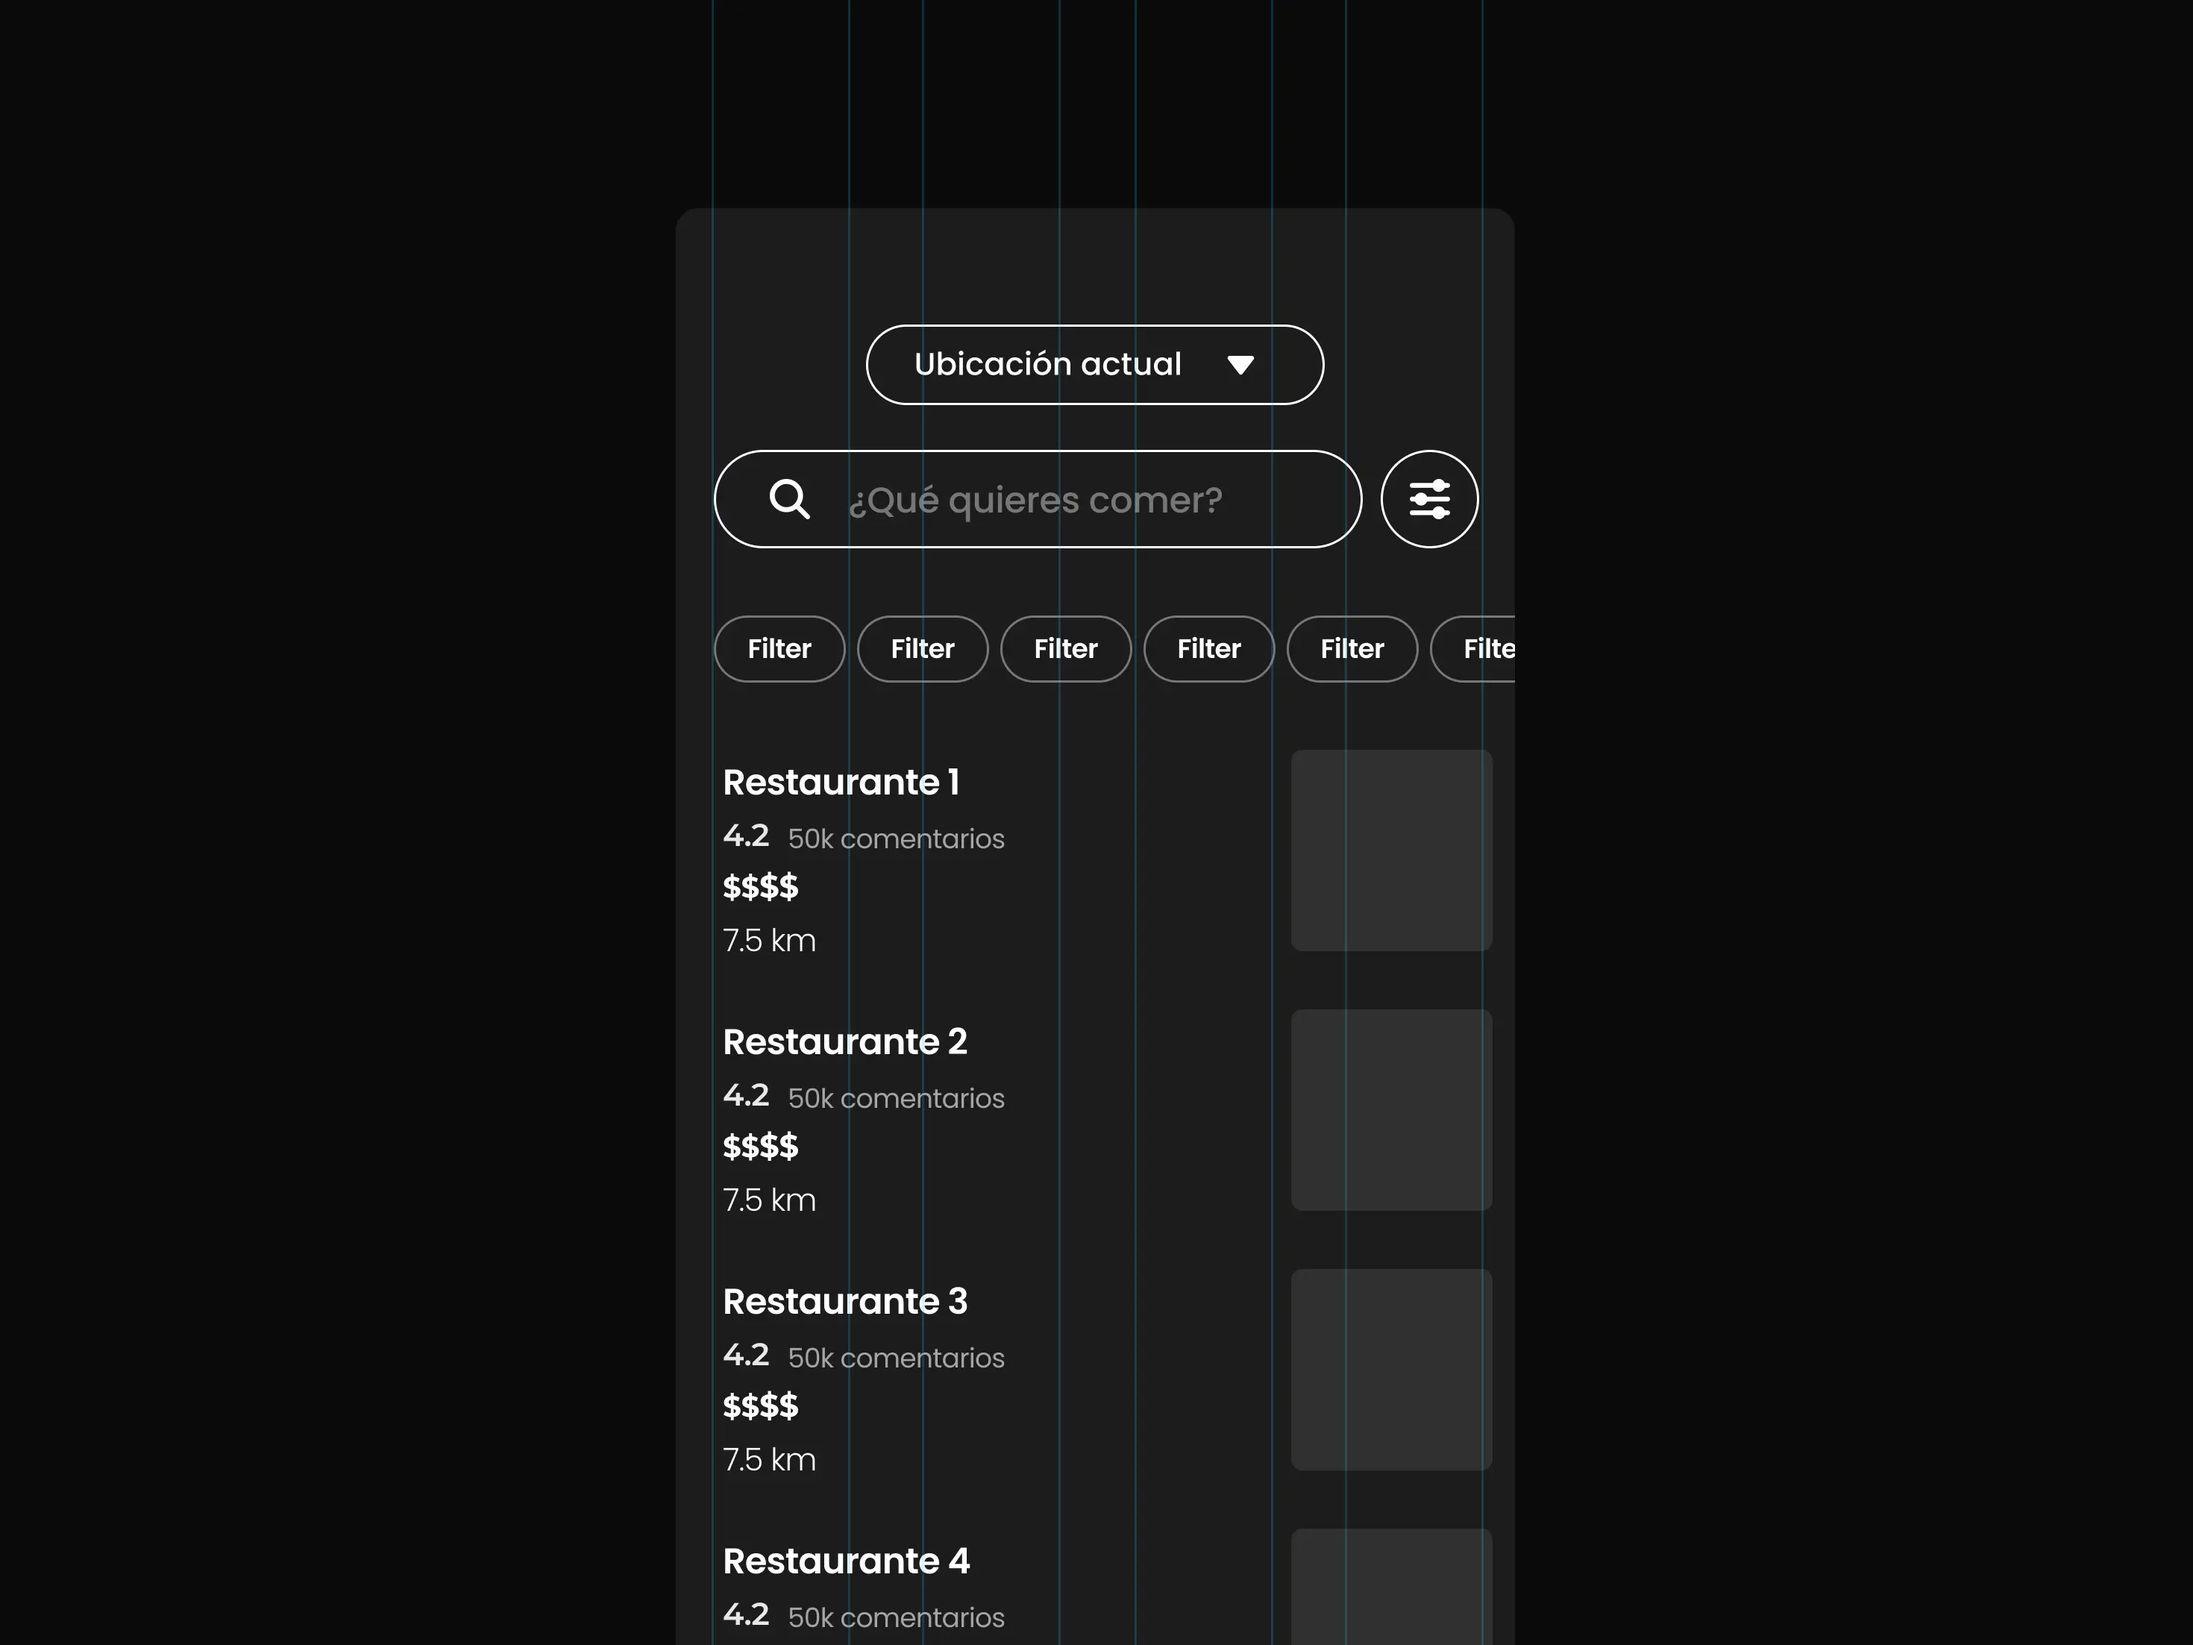
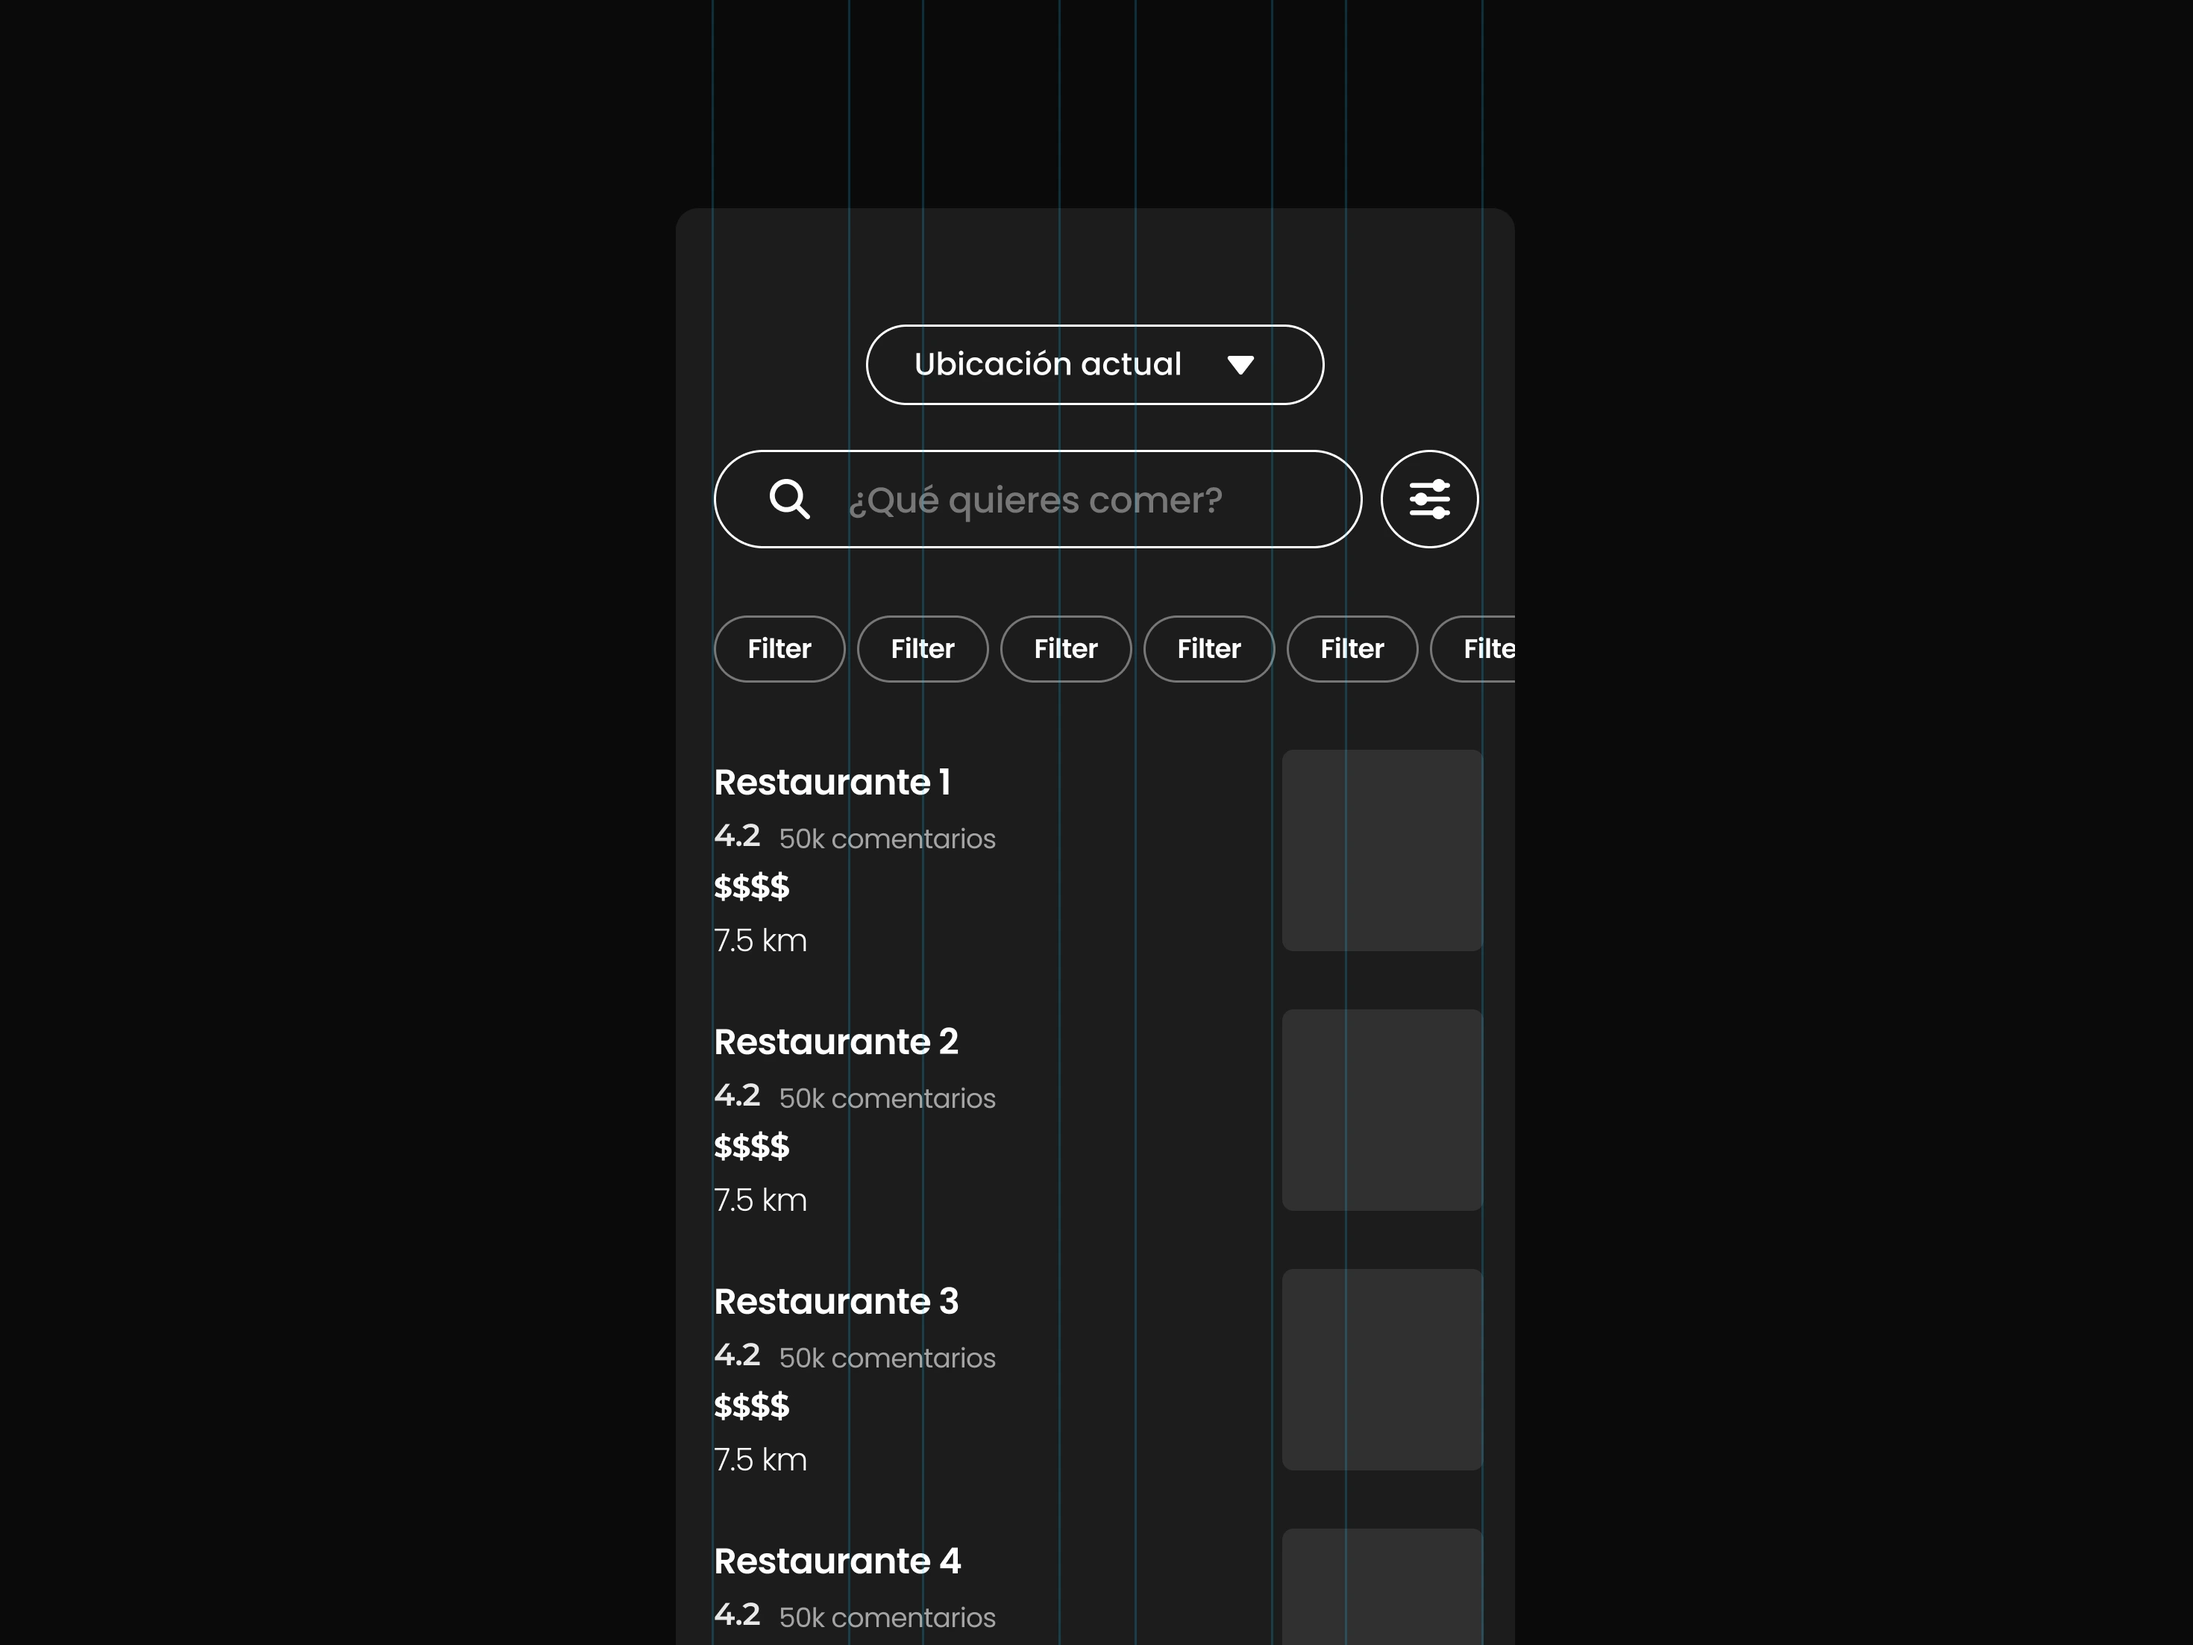
feat(gastro-app): update 01.webp to wireframe, add wide-01 mockup, reorder
- Replace images/gastro-app/01.webp (icon → dark wireframe with grid)
- Add images/gastro-app/wide-01.webp (1MB phone mockup with gastro logo)
- Move the 3-column vertical grid (01v/02v/03v) BEFORE the 'Diseño e
  iteración' section so it sits between Strategy and Process
- Append a full-width img-padded section with wide-01.webp at the end
  of the case study (after the CTA, before next-project)

New flow:
  Contexto y desafío → 2-col grid → Objetivos y alcance → 3-col grid
  → Diseño e iteración → Estado y próximos pasos + CTA → wide mockup

diff --git a/projects/gastro-app/index.html b/projects/gastro-app/index.html
@@ -220,6 +220,14 @@
     </div>
   </div>
 
+  <div class="content-section">
+    <div class="img-grid-3">
+      <img src="/images/gastro-app/01v.webp" alt="" data-reveal>
+      <img src="/images/gastro-app/02v.webp" alt="" data-reveal style="--reveal-delay:80ms">
+      <img src="/images/gastro-app/03v.webp" alt="" data-reveal style="--reveal-delay:160ms">
+    </div>
+  </div>
+
   <!-- 3: Proceso -->
   <div class="content-section" data-reveal>
     <div class="content-text">
@@ -230,14 +238,6 @@
       <div class="content-body">
         <p data-i18n="project.gastro-app.s3.body">Diseñé la estructura antes que la interfaz. El flujo prioriza buscar, filtrar y decidir en pocos pasos, con la imagen del plato como protagonista y una navegación clara que sostiene la simpleza del MVP.</p>
       </div>
-    </div>
-  </div>
-
-  <div class="content-section">
-    <div class="img-grid-3">
-      <img src="/images/gastro-app/01v.webp" alt="" data-reveal>
-      <img src="/images/gastro-app/02v.webp" alt="" data-reveal style="--reveal-delay:80ms">
-      <img src="/images/gastro-app/03v.webp" alt="" data-reveal style="--reveal-delay:160ms">
     </div>
   </div>
 
@@ -254,6 +254,12 @@
           <a href="#" class="btn-pill" target="_blank" rel="noopener" data-cta="gastro-app-store" data-i18n="project.gastro-app.cta">Descarga la app</a>
         </p>
       </div>
+    </div>
+  </div>
+
+  <div class="content-section">
+    <div class="img-padded">
+      <img src="/images/gastro-app/wide-01.webp" alt="Gastro app en uso" data-reveal>
     </div>
   </div>
 
